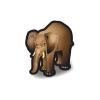
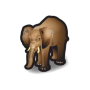
Added border to animals to indicate which player they belong to

diff --git a/eclipse project/SinglePlayerJungleChess/WebContent/jungle-chess.html b/eclipse project/SinglePlayerJungleChess/WebContent/jungle-chess.html
@@ -17,12 +17,15 @@
 	
 	<div id="content" ng-app="jungle-chess" ng-controller="JungleChessController">
 	
+		<table id="playerColors">
+			<tr><td>Player 1:</td><td><div class="player1"></div></td></tr>
+			<tr><td>Player 2:</td><td><div class="player2"></div></td></tr>
+		</table>
+	
 		<div id="board">
 			<div class="row" ng-repeat="row in board">
 				<div class="cell" ng-repeat="cell in row" ng-class="cell.type">
-					<div class="animal-image-wrapper" ng-show="cell.animal">
-						<img ng-src="images/animals/{{cell.animal.name}}.png" class="contentImage" />
-					</div>
+					<img ng-show="cell.animal" ng-src="images/animals/{{cell.animal.name}}.png" class="contentImage" ng-class="cell.animal.player.name"/>
 				</div>
 			</div>
 		</div>
@@ -30,8 +33,6 @@
 		<button ng-click="resetBoard()">Reset board</button>
 	
 	</div>
-
-<!-- <img ng-src="{{cell.imageId}}" class="cellBackground" ng-show="cell.type"/> -->
 
 </body>
 </html>

diff --git a/eclipse project/SinglePlayerJungleChess/WebContent/css/jungle-chess.css b/eclipse project/SinglePlayerJungleChess/WebContent/css/jungle-chess.css
@@ -1,5 +1,30 @@
 @CHARSET "ISO-8859-1";
 
+/* player colors */
+
+#playerColors div {
+	width: 40px;
+	height: 20px;
+}
+
+div.player1 {
+	background-color: red;
+}
+
+div.player2 {
+	background-color: teal;
+}
+
+img.player1 {
+	border: 1px solid red;
+}
+
+img.player2 {
+	border: 1px solid teal;
+}
+
+/* game board */
+
 #board {
 	display: table;
 	border: 1px solid black;
@@ -16,18 +41,15 @@
 	height: 100px;
 	width: 100px;
 	cursor: pointer;
-}
-
-.animal-image-wrapper {
-	overflow: hidden;
-	float: left;
-	width: 100px;
-    height: 100px;
+	
+	text-align: center;
+	vertical-align: middle;
 }
 
 .contentImage {
-	max-width:100%;
-    max-height:100%;
+	width: 90px;
+	height: 90px;
+	display: inline-block;
 }
 
 .grass {

diff --git a/eclipse project/SinglePlayerJungleChess/WebContent/js/jungle-chess.js b/eclipse project/SinglePlayerJungleChess/WebContent/js/jungle-chess.js
@@ -47,10 +47,10 @@ JungleChessController.prototype.createBoard = function() {
 		y : 6
 	} ];
 	var players = [ {
-		name : 'Player1',
+		name : 'player1',
 		startingPosition : 'top'
 	}, {
-		name : 'Player2',
+		name : 'player2',
 		startingPosition : 'bottom'
 	} ];
 
